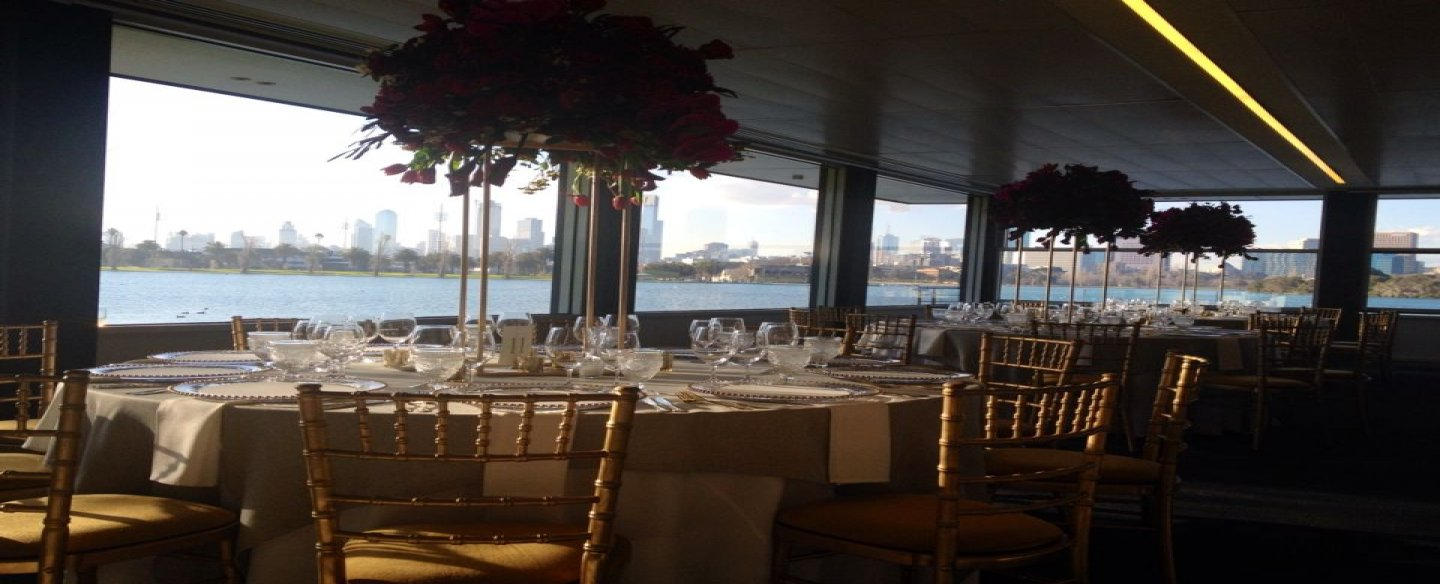
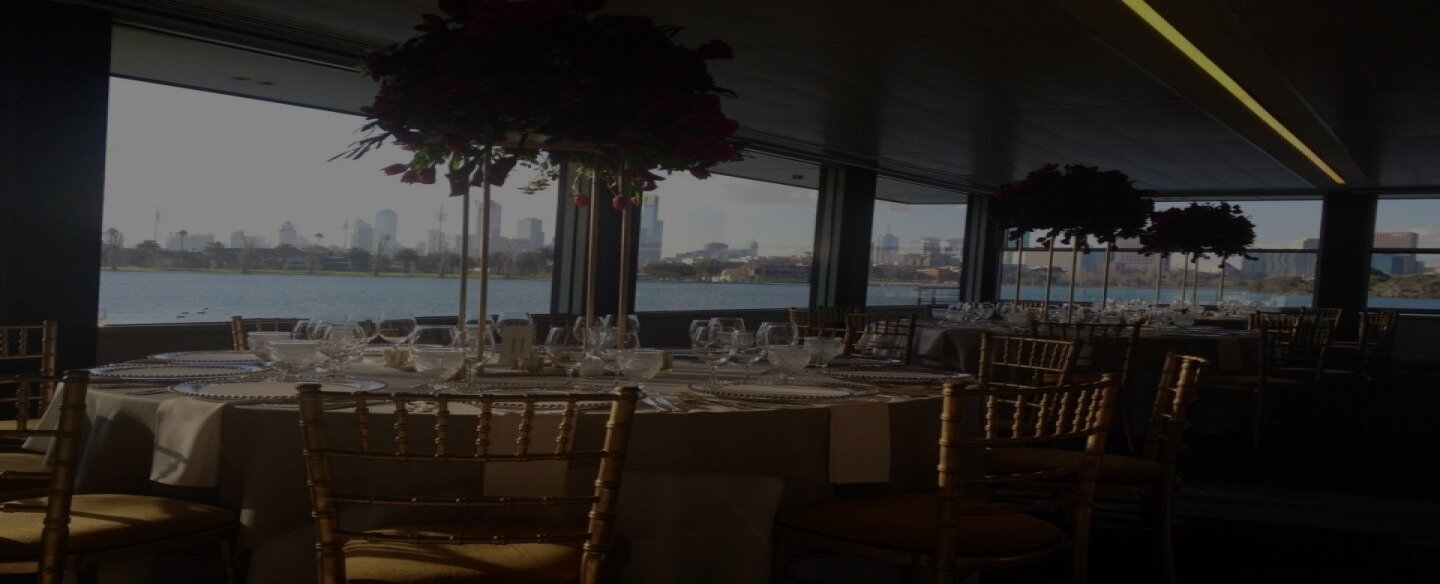
Subscription Section position fixed

diff --git a/index.html b/index.html
@@ -43,65 +43,131 @@
             </nav>
         </section>
         <!-- website slider -->
-        <div id="carouselExampleCaptions" class="carousel slide" data-bs-ride="carousel">
-            <div class="carousel-indicators">
-                <button type="button" data-bs-target="#carouselExampleCaptions" data-bs-slide-to="0" class="active"
-                    aria-current="true" aria-label="Slide 1"></button>
-                <button type="button" data-bs-target="#carouselExampleCaptions" data-bs-slide-to="1"
-                    aria-label="Slide 2"></button>
-                <button type="button" data-bs-target="#carouselExampleCaptions" data-bs-slide-to="2"
-                    aria-label="Slide 3"></button>
+        <section class="container">
+            <div id="carouselExampleCaptions" class="carousel slide" data-bs-ride="carousel">
+                <div class="carousel-indicators">
+                    <button type="button" data-bs-target="#carouselExampleCaptions" data-bs-slide-to="0" class="active"
+                        aria-current="true" aria-label="Slide 1"></button>
+                    <button type="button" data-bs-target="#carouselExampleCaptions" data-bs-slide-to="1"
+                        aria-label="Slide 2"></button>
+                    <button type="button" data-bs-target="#carouselExampleCaptions" data-bs-slide-to="2"
+                        aria-label="Slide 3"></button>
+                </div>
+                <div class="carousel-inner">
+                    <div class="carousel-item active">
+                        <img src="images/banner.png" class="d-block w-100" alt="...">
+                        <div class="carousel-caption fs-6 lh-sm d-sm-block d-md-block">
+                            <h1>The perfect venue for your next event</h1>
+                            <p>The ACC offers ballrooms and event venues for both intimate affairs and large wedding
+                                parties. Choose from our grand ballrooms, event halls and picturesque lobbies perfect
+                                for
+                                celebrations of every size.</p>
+                            <a href="https://www.bkash.com/"><button
+                                    class="bg-light text-primary px-5 py-2 border border-white rounded-2">Buy
+                                    Now</button></a>
+                        </div>
+                    </div>
+                    <div class="carousel-item">
+                        <img src="images/carousel-1.jpg" class="d-block w-100" alt="...">
+                        <div class="carousel-caption fs-6 lh-sm d-md-block d-sm-block">
+                            <h1>Huge Space for events</h1>
+                            <p>Reunions, anniversaries, celebrations, special events, holidays. Your event, your way.
+                                Seat
+                                up to 800. Host an intimate gathering of 10 to 20 guests. Or party with 1,500
+                                celebrants.
+                                You've found the right place.</p>
+                            <a href="https://www.bkash.com/"><button
+                                    class="bg-light text-primary px-5 py-2 border border-white rounded-2 fs-6">Buy
+                                    Now</button></a>
+                        </div>
+                    </div>
+                    <div class="carousel-item">
+                        <img src="images/carousel-2.jpg" class="d-block w-100" alt="...">
+                        <div class="carousel-caption fs-6 lh-sm d-md-block d-sm-block">
+                            <h1>Indoor Spaces</h1>
+                            <p>The ACC offers ballrooms and event venues for both intimate affairs and large wedding
+                                parties. Choose from our grand ballrooms, event halls and picturesque lobbies perfect
+                                for
+                                celebrations of every size.</p>
+                            <a href="https://www.bkash.com/"><button
+                                    class="bg-light text-primary px-5 py-2 border border-white rounded-2">Buy
+                                    Now</button></a>
+                        </div>
+                    </div>
+                </div>
+                <button class="carousel-control-prev" type="button" data-bs-target="#carouselExampleCaptions"
+                    data-bs-slide="prev">
+                    <span class="carousel-control-prev-icon" aria-hidden="true"></span>
+                    <span class="visually-hidden">Previous</span>
+                </button>
+                <button class="carousel-control-next" type="button" data-bs-target="#carouselExampleCaptions"
+                    data-bs-slide="next">
+                    <span class="carousel-control-next-icon" aria-hidden="true"></span>
+                    <span class="visually-hidden">Next</span>
+                </button>
             </div>
-            <div class="carousel-inner">
-                <div class="carousel-item active">
-                    <img src="images/banner.png" class="d-block w-100" alt="...">
-                    <div class="carousel-caption d-none d-md-block">
-                        <h1>The perfect venue for your next event</h1>
-                        <p>The ACC offers ballrooms and event venues for both intimate affairs and large wedding
-                            parties. Choose from our grand ballrooms, event halls and picturesque lobbies perfect for
-                            celebrations of every size.</p>
-                        <button class="bg-light text-primary px-5 py-2 border border-white rounded-2">Buy Now</button>
-                    </div>
-                </div>
-                <div class="carousel-item">
-                    <img src="images/carousel-1.jpg" class="d-block w-100" alt="...">
-                    <div class="carousel-caption d-none d-md-block">
-                        <h1>Huge Space for events</h1>
-                        <p>Reunions, anniversaries, celebrations, special events, holidays. Your event, your way. Seat
-                            up to 800. Host an intimate gathering of 10 to 20 guests. Or party with 1,500 celebrants.
-                            You've found the right place.</p>
-                        <button class="bg-light text-primary px-5 py-2 border border-white rounded-2">Buy Now</button>
-                    </div>
-                </div>
-                <div class="carousel-item">
-                    <img src="images/carousel-2.jpg" class="d-block w-100 img-fluid" alt="...">
-                    <div class="carousel-caption d-none d-md-block">
-                        <h1>Indoor Spaces</h1>
-                        <p>The ACC offers ballrooms and event venues for both intimate affairs and large wedding
-                            parties. Choose from our grand ballrooms, event halls and picturesque lobbies perfect for
-                            celebrations of every size.</p>
-                        <button class="bg-light text-primary px-5 py-2 border border-white rounded-2">Buy Now</button>
-                    </div>
-                </div>
-            </div>
-            <button class="carousel-control-prev" type="button" data-bs-target="#carouselExampleCaptions"
-                data-bs-slide="prev">
-                <span class="carousel-control-prev-icon" aria-hidden="true"></span>
-                <span class="visually-hidden">Previous</span>
-            </button>
-            <button class="carousel-control-next" type="button" data-bs-target="#carouselExampleCaptions"
-                data-bs-slide="next">
-                <span class="carousel-control-next-icon" aria-hidden="true"></span>
-                <span class="visually-hidden">Next</span>
-            </button>
-        </div>
+        </section>
     </header>
     <main>
+        <!-- bonus part wedding dress gallery -->
+        <section class="container my-4">
+            <h2 class=" text-center">Choose Wedding Dresses</h2>
+            <div class="row row-cols-1 row-cols-md-2 row-cols-lg-3 g-4">
+                <div class="col">
+                    <div class="card border-0 h-100 shadow-lg">
+                        <img src="images/dress-1.jpg" class="card-img-top" alt="...">
+                        <div class="card-body">
+                            <h5 class="card-title">Brigitta Gown</h5>
+                            <p class="card-text">Inspired by the look of pressed florals, this embroidered tulle gown
+                                gains extraordinary texture from a scattering of dimensional appliques. Layers of sheer
+                                tulle float beneath the embroidery, striking the perfect balance between frothy and
+                                architectural.</p>
+                        </div>
+                        <div class="m-3">
+                            <button class="bg-light text-primary px-5 py-2 border border-white rounded-pill">Choose
+                                Dress</button>
+                        </div>
+                    </div>
+                </div>
+                <div class="col">
+                    <div class="card h-100 border-0 shadow-lg">
+                        <img src="images/dress-2.jpg" class="card-img-top" alt="...">
+                        <div class="card-body">
+                            <h5 class="card-title">Daphne Gown</h5>
+                            <p class="card-text">We drew inspiration from Regency-era wallpaper when designing this
+                                gown’s original floral stripe artwork, which was printed on finely ribbed faille to
+                                mimic the texture of real wallpaper. Thoughtful details bridge the gap between Regency
+                                fashion and modern style: a strapless bodice, empire waist, and ruffled tiers trimmed in
+                                horsehair to hold their shape with ease.</p>
+                        </div>
+                        <div class="m-3">
+                            <button class="bg-light text-primary px-5 py-2 border border-white rounded-pill">Choose
+                                Dress</button>
+                        </div>
+                    </div>
+                </div>
+                <div class="col">
+                    <div class="card h-100 border-0 shadow-lg">
+                        <img src="images/dress-3.jpg" class="card-img-top" alt="...">
+                        <div class="card-body">
+                            <h5 class="card-title">Especia Cerecino Gown</h5>
+                            <p class="card-text">A corseted bodice tops this tonal gown’s light-as-air mesh skirt,
+                                creating a dreamy, ethereal aesthetic. Gauzy shoulder ties and embroidered florals
+                                dotted with delicate beadwork heighten the romance.</p>
+                        </div>
+                        <div class="m-3">
+                            <button class="bg-light text-primary px-5 py-2 border border-white rounded-pill">Choose
+                                Dress</button>
+                        </div>
+                    </div>
+                </div>
+            </div>
+        </section>
         <!-- Subscription Plan -->
         <section class="container my-4">
 
             <h2 class="text-center">Our Package</h2>
-            <div class="row row-cols-lg-4">
+            <div class="row row-cols-lg-4 row-cols-md-2">
                 <div class="col">
                     <div class="card bg-white card border-0 h-100 shadow-lg" style="width: 18rem;">
                         <div class="card-body mt-4 rounded-3">
@@ -152,7 +218,7 @@
                     <div class="card bg-white card h-100  shadow-lg" style="width: 18rem;">
                         <div class="card-body bg-customize-plan-color rounded-3 mt-1">
                             <div class="position-relative">
-                                <button type="button" class="btn btn-danger position-absolute top-0 end-0">Hot</button>
+                                <button type="button" class="btn btn-danger special-hot">Hot</button>
                             </div>
                             <h2 class="card-title text-white">$300</h2>
                             <h4 class="card-subtitle text-white">Business Fair</h4>
@@ -196,6 +262,14 @@
                                 Plan</button>
                         </div>
                     </div>
+                </div>
+            </div>
+        </section>
+        <!-- toaster part -->
+        <section class="container">
+            <div class="toast show" role="alert" aria-live="assertive" aria-atomic="true">
+                <div class="toast-body">
+                    <i class="fas fa-gift"></i> 20% off on next booking
                 </div>
             </div>
         </section>
@@ -287,7 +361,7 @@
                     </div>
                 </div>
                 <div class="col">
-                    <img class="mt-4" src="images/people.png" alt="">
+                    <img class="mt-2 w-100" src="images/people.png" alt="">
                 </div>
 
             </div>
@@ -297,7 +371,7 @@
 
     <footer class="d-flex justify-content-between bg-dark">
         <div class="d-flex justify-contenet-start align-items-center">
-            <p class="text-white px-5">&copy; 2022 All rights reserved</p>
+            <p class="text-white px-5">&copy; ACC 2022 All rights reserved</p>
         </div>
         <div class="d-flex justify-contenet-end text-center">
             <ul>

diff --git a/style/style.css b/style/style.css
@@ -8,6 +8,10 @@ ul {
   .bg-customize-plan-color{
     background-color: #3F87F5;
   }
- 
- 
+ .special-hot{
+  position: absolute;
+  right: 0px;
+  top: -25px;
+  border-radius: 13.5px;
+ }
  
